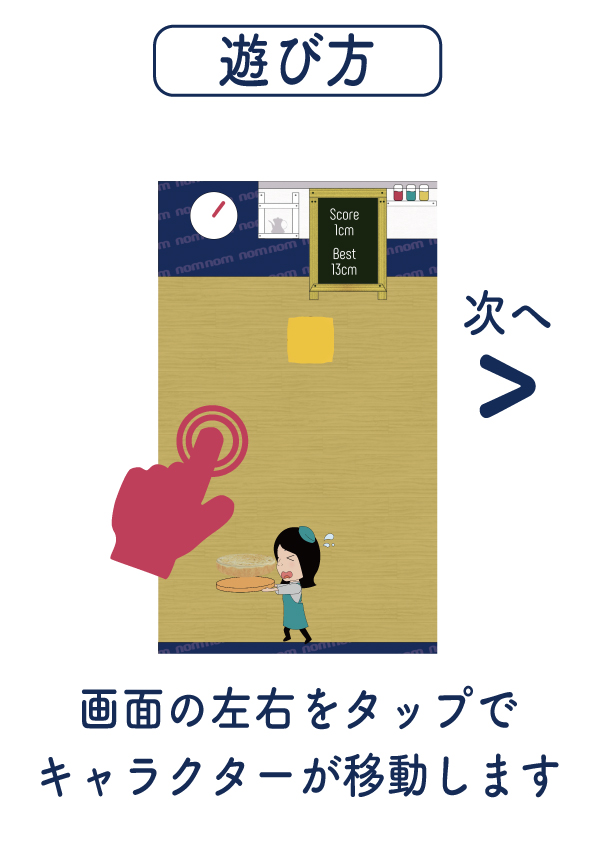
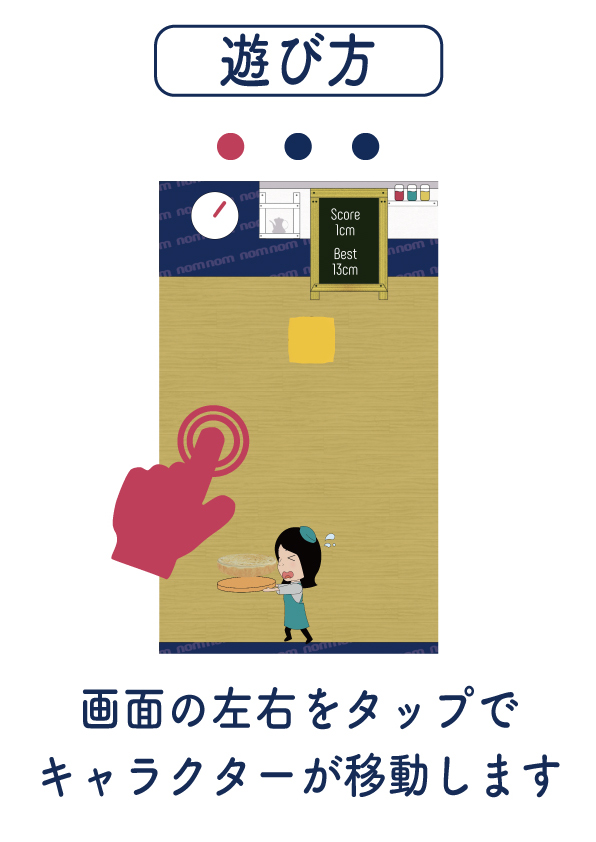
updata

diff --git a/js/humbargerSketch.js b/js/humbargerSketch.js
@@ -56,9 +56,9 @@ function preload() {
 	etcImg[3] = loadImage('assets/image/etc/res_back.png');
 	etcImg[4] = loadImage('assets/image/etc/finish.png');
 	etcImg[5] = loadImage('assets/image/etc/startLogo.jpg');
-	etcImg[6] = loadImage('assets/image/etc/walkThrough_p1.jpg');
-	etcImg[7] = loadImage('assets/image/etc/walkThrough_p2.jpg');
-	etcImg[8] = loadImage('assets/image/etc/walkThrough_p3.jpg');
+	// etcImg[6] = loadImage('assets/image/etc/walkThrough_p1.jpg');
+	// etcImg[7] = loadImage('assets/image/etc/walkThrough_p2.jpg');
+	// etcImg[8] = loadImage('assets/image/etc/walkThrough_p3.jpg');
 	etcImg[9] = loadImage('assets/image/etc/logoText.jpg');
 	
 }
@@ -120,48 +120,49 @@ function drawStartScene(){
 		fill(200,64,89);
 		text('NOMNOM', windowWidth/2, windowHeight/4);
 		text('THE GAME', windowWidth/2, windowHeight/4*3);
-		pop();
-		
-	}else if(stP == 1){
-		imageMode(CORNERS);
-		image(etcImg[6], 0, 0,windowWidth,windowHeight);
-		push();
-		translate(windowWidth/2,windowHeight/6);
-		noStroke();
-		fill(200,64,89);
-		ellipse(-40,0,20,20);
-		fill(20,50,101);
-		ellipse(0,0,20,20);
-		fill(20,50,101);
-		ellipse(40,0,20,20);
-		pop();
-	}else if(stP == 2){
-		imageMode(CORNERS);
-		image(etcImg[7], 0, 0,windowWidth,windowHeight);
-		push();
-		translate(windowWidth/2,windowHeight/6);
-		noStroke();
-		fill(20,50,101);
-		ellipse(-40,0,20,20);
-		fill(200,64,89);
-		ellipse(0,0,20,20);
-		fill(20,50,101);
-		ellipse(40,0,20,20);
-		pop();
-	}else if(stP == 3){
-		imageMode(CORNERS);
-		image(etcImg[8], 0, 0,windowWidth,windowHeight);
-		push();
-		translate(windowWidth/2,windowHeight/6);
-		noStroke();
-		fill(20,50,101);
-		ellipse(-40,0,20,20);
-		fill(20,50,101);
-		ellipse(0,0,20,20);
-		fill(200,64,89);
-		ellipse(40,0,20,20);
-		pop();
-	}else if(stP == 4){
+		pop();	
+	}
+	// else if(stP == 1){
+	// 	imageMode(CORNERS);
+	// 	image(etcImg[6], 0, 0,windowWidth,windowHeight);
+	// 	push();
+	// 	translate(windowWidth/2,windowHeight/6);
+	// 	noStroke();
+	// 	fill(200,64,89);
+	// 	ellipse(-40,0,20,20);
+	// 	fill(20,50,101);
+	// 	ellipse(0,0,20,20);
+	// 	fill(20,50,101);
+	// 	ellipse(40,0,20,20);
+	// 	pop();
+	// }else if(stP == 2){
+	// 	imageMode(CORNERS);
+	// 	image(etcImg[7], 0, 0,windowWidth,windowHeight);
+	// 	push();
+	// 	translate(windowWidth/2,windowHeight/6);
+	// 	noStroke();
+	// 	fill(20,50,101);
+	// 	ellipse(-40,0,20,20);
+	// 	fill(200,64,89);
+	// 	ellipse(0,0,20,20);
+	// 	fill(20,50,101);
+	// 	ellipse(40,0,20,20);
+	// 	pop();
+	// }else if(stP == 3){
+	// 	imageMode(CORNERS);
+	// 	image(etcImg[8], 0, 0,windowWidth,windowHeight);
+	// 	push();
+	// 	translate(windowWidth/2,windowHeight/6);
+	// 	noStroke();
+	// 	fill(20,50,101);
+	// 	ellipse(-40,0,20,20);
+	// 	fill(20,50,101);
+	// 	ellipse(0,0,20,20);
+	// 	fill(200,64,89);
+	// 	ellipse(40,0,20,20);
+	// 	pop();
+	// }
+	else if(stP == 4){
 		imageMode(CENTER);
 		image(etcImg[5], windowWidth/2,windowHeight/2,windowWidth/2,windowWidth/2,);
 
@@ -184,6 +185,7 @@ function drawStartScene(){
 		textSize(windowWidth/6);
 		fill(200,64,89);
 		text('START', 0, windowHeight/8*3);
+
 		// if((mouseX - windowWidth/2 > -windowWidth/4) 
 		// 	&& (mouseX - windowWidth/2 < windowWidth/4) 
 		// 	&& (mouseY - windowHeight/2 > windowHeight/3 - windowWidth/10)
@@ -201,68 +203,20 @@ function drawStartScene(){
 	}
 }
 
-// function mousePressed(){
-// 	if(scene == 0){
-// 		if(stP == 0){
-// 			stP++;
-// 		}else if(stP == 1){
-// 			if(mouseX >= windowWidth/2){
-// 				stP++;
-// 			}
-// 		}else if(stP == 2){
-// 			if(mouseX < windowWidth/2){
-// 				stP--;
-// 			}else{
-// 				stP++;
-// 			}
-// 		}else if(stP == 3){
-// 			if(mouseX < windowWidth/2){
-// 				stP--;
-// 			}else{
-// 				stP++;
-// 			}
-// 		}else if(stP == 4){
-// 			if((mouseX - windowWidth/2 > -windowWidth/4) 
-// 			&& (mouseX - windowWidth/2 < windowWidth/4) 
-// 			&& (mouseY - windowHeight/2 > windowHeight/3 - windowWidth/10)
-// 			&& ( mouseY - windowHeight/2 <=  windowHeight/3 + windowWidth/10)){
-// 				scene = 1;
-// 			}
-// 		}
-// 	}
-// }
 
 function touchEnded(){
 	if(scene == 0){
-		var count = 0;
-		if(stP == 0){
-			stP = 1;
-		}else if(stP == 1){
-			count++;
-			if(mouseX >= windowWidth/2 && count == 1){
-				stP = 2;
-			}
-		}else if(stP == 2){
-			count++;
-			if(mouseX < windowWidth/2 && count == 1){
-				stP = 1;
-			}else if(mouseX >= windowWidth/2 && count == 1){
-				stP = 3;
-			}
-		}else if(stP == 3){
-			count++;
-			if(mouseX < windowWidth/2){
-				stP = 2;
-			}else if(mouseX >= windowWidth/2 && count == 1){
-				stP = 4;
-			}
-		}else if(stP == 4){
+		if(stP == 4){
 			if((mouseX - windowWidth/2 > -windowWidth/4) 
 			&& (mouseX - windowWidth/2 < windowWidth/4) 
 			&& (mouseY - windowHeight/2 > windowHeight/3 - windowWidth/10)
 			&& ( mouseY - windowHeight/2 <=  windowHeight/3 + windowWidth/10)){
 				scene = 1;
 			}
+
+			$(function(){
+				$('#hint_icon').css('display','none');
+			});
 		}
 	}
 

diff --git a/index.html b/index.html
@@ -11,6 +11,8 @@
     <script src="libraries/p5.sound.js" type="text/javascript"></script>
     <script src="libraries/p5.dom.js" type="text/javascript"></script>
 
+    <link rel="stylesheet" href="css/style.css" type="text/css" />
+
     <!-- <script type="text/javascript" src="https://cdnjs.cloudflare.com/ajax/libs/p5.js/0.8.0/p5.js"></script>
     <script type="text/javascript" src="https://cdnjs.cloudflare.com/ajax/libs/p5.js/0.8.0/addons/p5.sound.js"></script>
     <script type="text/javascript" src="https://cdnjs.cloudflare.com/ajax/libs/p5.js/0.8.0/addons/p5.dom.js"></script> -->
@@ -41,8 +43,29 @@
     <script src="js/classes.js"></script>
     <script src="js/humbargerSketch.js"></script>
 
+            <!-- jquery -->
+    <script src="https://ajax.googleapis.com/ajax/libs/jquery/3.4.1/jquery.min.js"></script>
+
+        <!-- fontawesome -->
+    <link href="https://use.fontawesome.com/releases/v5.6.1/css/all.css" rel="stylesheet">
+
 </head>
 <body>
 	<div id="sketch-holder" onclick=""></div>
+    <div id="opening"></div>
+        <div class="walkThrough">
+            <img id="wt_p1" src="assets/image/etc/walkThrough_p1.jpg">
+            <img id="wt_p2" src="assets/image/etc/walkThrough_p2.jpg">
+            <img id="wt_p3" src="assets/image/etc/walkThrough_p3.jpg">
+
+            <div id="right_icon"><i class="fas fa-chevron-right fa-3x"></i></div>
+            <div id="left_icon"><i class="fas fa-chevron-left fa-3x"></i></div>
+            <div id="close_icon"><i class="fas fa-times fa-3x"></i></div>
+
+            <div id="overlay"></div>
+        </div>
+        <div id="hint_icon"><i class="fas fa-book-open fa-2x"></i></div>
+    </body>
+    <script type="text/javascript" src= "js/script.js"></script>
 </body>
 </html>

diff --git a/js/script.js b/js/script.js
@@ -1,0 +1,62 @@
+var pageNum;
+
+$(function(){
+
+	$('#opening').click(function(){
+		$('#wt_p1').css('display','block');
+		$('#right_icon').css('display','block');
+		$('#overlay').css('display','block');
+		$('#opening').css('display','none');
+		$('#close_icon').css('display','block');
+
+
+		pageNum = 1;
+
+	});
+
+	$('#right_icon').click(function(){
+		$('#right_icon').css('display','block');
+		$('#left_icon').css('display','block');
+
+		$('#wt_p'+pageNum).css('display','none');
+		$('#wt_p'+(pageNum+1)).css('display','block');
+		pageNum++;
+		if(pageNum==3){
+			$('#right_icon').css('display','none');
+		}
+	});
+
+	$('#left_icon').click(function(){
+		$('#right_icon').css('display','block');
+		$('#left_icon').css('display','block');
+
+		$('#wt_p'+pageNum).css('display','none');
+		$('#wt_p'+(pageNum-1)).css('display','block');
+		pageNum--;
+		if(pageNum==1){
+			$('#left_icon').css('display','none');
+		}
+	});
+
+	$('#close_icon').click(function(){
+		$('.walkThrough').css('display','none');
+		$('#hint_icon').css('display','block');
+		
+		stP = 4;
+	});
+
+	$('#hint_icon').click(function(){
+		$('.walkThrough').css('display','block');
+		$('#hint_icon').css('display','none');
+		$('#wt_p1').css('display','block');
+		$('#right_icon').css('display','block');
+		$('#overlay').css('display','block');
+		$('#opening').css('display','none');
+		$('#close_icon').css('display','block');
+
+		pageNum = 1;
+		stP = 0;
+	});
+
+
+});

diff --git a/css/style.css b/css/style.css
@@ -1,0 +1,74 @@
+html,body{
+	height:100%;
+}
+
+#opening{
+	width: 100%;
+	height: 100%;
+	top: 0;
+	left: 0;
+	position: fixed;
+
+	z-index: 2;
+}
+
+
+#wt_p1,#wt_p2,#wt_p3{
+	width: 90%;
+	height: 90%;
+	position: absolute;
+	position: fixed;
+	top: 0;
+	right: 0;
+	bottom: 0;
+	left: 0;
+	margin:auto;
+	border-radius: 10px;
+	z-index: 2;
+
+	display: none;
+}
+
+#right_icon{
+	position: absolute;
+	top: 50%;
+	right: 10%;
+	display: none;
+	z-index: 3;
+	color: rgb(20,50,101);
+}
+#left_icon{
+	position: absolute;
+	top: 50%;
+	left: 10%;
+	display: none;
+	z-index: 3;
+	color: rgb(20,50,101);
+}
+#close_icon{
+	position: absolute;
+	top: 8%;
+	right: 10%;
+	display: none;
+	z-index: 3;
+	color: rgb(20,50,101);
+}
+#hint_icon{
+	position: absolute;
+	top: 5%;
+	right: 7%;
+	display: none;
+	z-index: 3;
+	color: rgb(20,50,101);
+}
+
+#overlay{
+	display: none;
+    position: fixed;
+    top: 0;
+    left: 0;
+    width: 100%;
+    height: 100%;
+    background: rgba(0, 0, 0, 0.3);
+    z-index: 1;
+}
